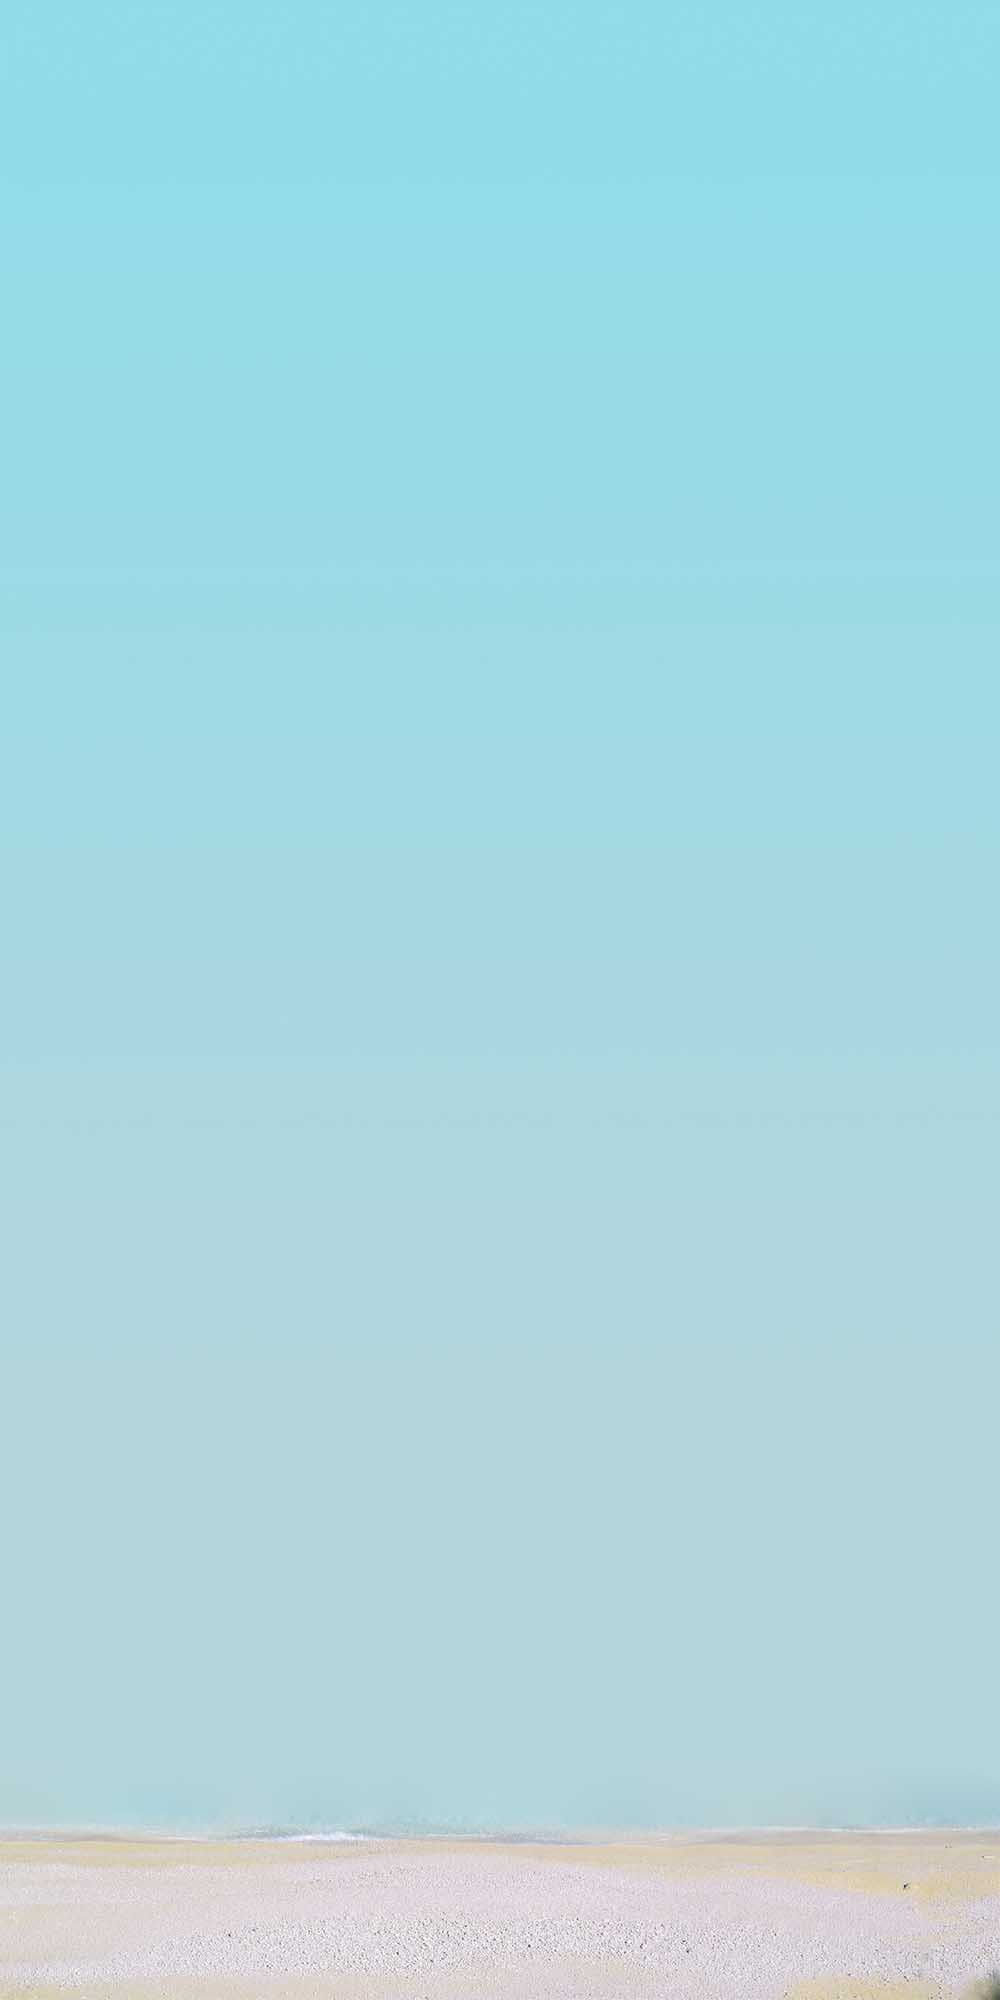
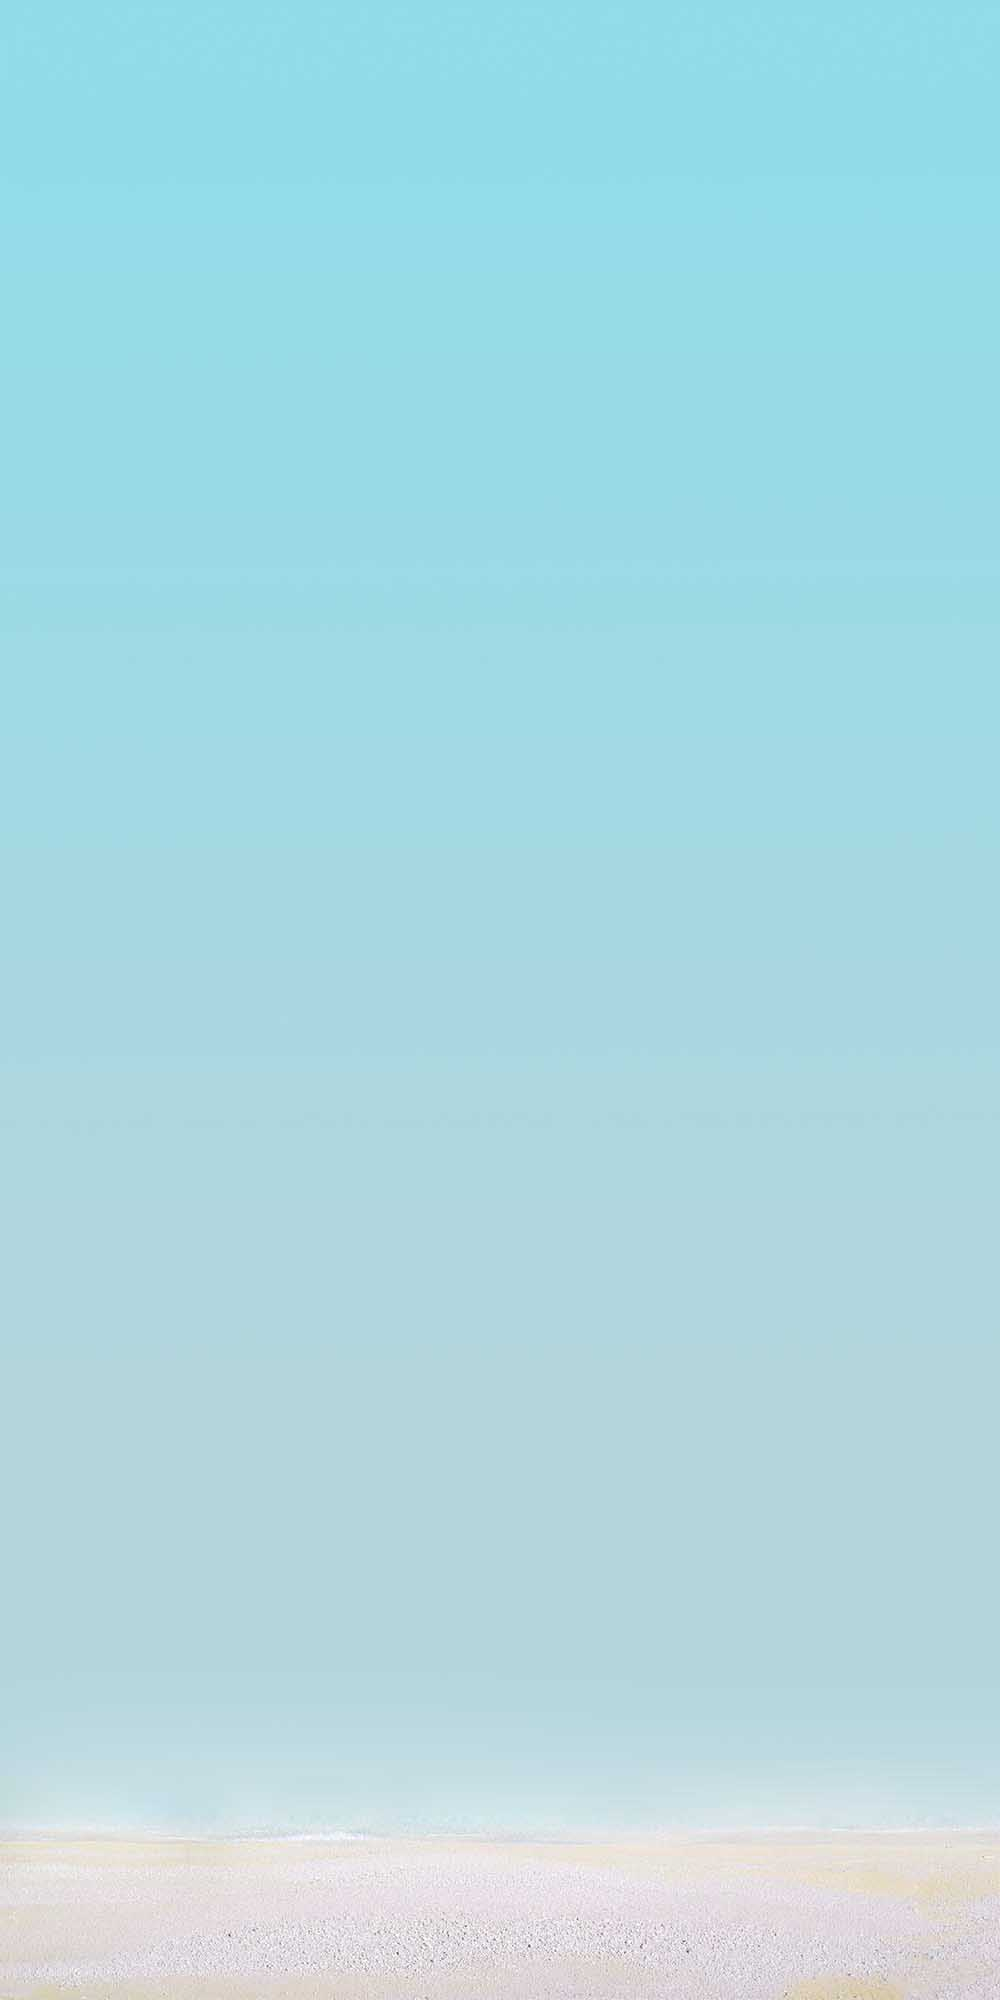
feat: improve bg1

Changed region(s): [[0.0, 0.868, 1.0, 1.0], [0.0, 0.992, 0.031, 1.0]]

diff --git a/assets/foliate-js/src/book.js b/assets/foliate-js/src/book.js
@@ -351,12 +351,10 @@ const getCSS = ({ fontSize,
 
   const writingModeCSS = writingMode === 'auto' ? '' : `writing-mode: ${writingMode} !important;`
 
-  const screenWidth = window.innerWidth
-
   const backgroundImageCSS = !backgroundImage || backgroundImage === 'none' ? 'background: none !important;' :
     `background-image: url('${backgroundImage}') !important;
     background-size: 100% 100% !important;
-    background-repeat: repeat-x !important;
+    background-repeat: repeat !important;
     background-attachment: scroll !important; 
     background-position: center center !important;
     background-clip: content-box !important;`
@@ -442,7 +440,7 @@ const getCSS = ({ fontSize,
 const convertChineseHandler = (mode, doc) => {
   console.log('convertChinese', mode)
   const zh_s = '皑蔼碍爱翱袄奥坝罢摆败颁办绊帮绑镑谤剥饱宝报鲍辈贝钡狈备惫绷笔毕毙闭边编贬变辩辫鳖瘪濒滨宾摈饼拨钵铂驳卜补参蚕残惭惨灿苍舱仓沧厕侧册测层诧搀掺蝉馋谗缠铲产阐颤场尝长偿肠厂畅钞车彻尘陈衬撑称惩诚骋痴迟驰耻齿炽冲虫宠畴踌筹绸丑橱厨锄雏础储触处传疮闯创锤纯绰辞词赐聪葱囱从丛凑窜错达带贷担单郸掸胆惮诞弹当挡党荡档捣岛祷导盗灯邓敌涤递缔点垫电淀钓调迭谍叠钉顶锭订东动栋冻斗犊独读赌镀锻断缎兑队对吨顿钝夺鹅额讹恶饿儿尔饵贰发罚阀珐矾钒烦范贩饭访纺飞废费纷坟奋愤粪丰枫锋风疯冯缝讽凤肤辐抚辅赋复负讣妇缚该钙盖干赶秆赣冈刚钢纲岗皋镐搁鸽阁铬个给龚宫巩贡钩沟构购够蛊顾剐关观馆惯贯广规硅归龟闺轨诡柜贵刽辊滚锅国过骇韩汉阂鹤贺横轰鸿红后壶护沪户哗华画划话怀坏欢环还缓换唤痪焕涣黄谎挥辉毁贿秽会烩汇讳诲绘荤浑伙获货祸击机积饥讥鸡绩缉极辑级挤几蓟剂济计记际继纪夹荚颊贾钾价驾歼监坚笺间艰缄茧检碱硷拣捡简俭减荐槛鉴践贱见键舰剑饯渐溅涧浆蒋桨奖讲酱胶浇骄娇搅铰矫侥脚饺缴绞轿较秸阶节茎惊经颈静镜径痉竞净纠厩旧驹举据锯惧剧鹃绢杰洁结诫届紧锦仅谨进晋烬尽劲荆觉决诀绝钧军骏开凯颗壳课垦恳抠库裤夸块侩宽矿旷况亏岿窥馈溃扩阔蜡腊莱来赖蓝栏拦篮阑兰澜谰揽览懒缆烂滥捞劳涝乐镭垒类泪篱离里鲤礼丽厉励砾历沥隶俩联莲连镰怜涟帘敛脸链恋炼练粮凉两辆谅疗辽镣猎临邻鳞凛赁龄铃凌灵岭领馏刘龙聋咙笼垄拢陇楼娄搂篓芦卢颅庐炉掳卤虏鲁赂禄录陆驴吕铝侣屡缕虑滤绿峦挛孪滦乱抡轮伦仑沦纶论萝罗逻锣箩骡骆络妈玛码蚂马骂吗买麦卖迈脉瞒馒蛮满谩猫锚铆贸么霉没镁门闷们锰梦谜弥觅绵缅庙灭悯闽鸣铭谬谋亩钠纳难挠脑恼闹馁腻撵捻酿鸟聂啮镊镍柠狞宁拧泞钮纽脓浓农疟诺欧鸥殴呕沤盘庞国爱赔喷鹏骗飘频贫苹凭评泼颇扑铺朴谱脐齐骑岂启气弃讫牵扦钎铅迁签谦钱钳潜浅谴堑枪呛墙蔷强抢锹桥乔侨翘窍窃钦亲轻氢倾顷请庆琼穷趋区躯驱龋颧权劝却鹊让饶扰绕热韧认纫荣绒软锐闰润洒萨鳃赛伞丧骚扫涩杀纱筛晒闪陕赡缮伤赏烧绍赊摄慑设绅审婶肾渗声绳胜圣师狮湿诗尸时蚀实识驶势释饰视试寿兽枢输书赎属术树竖数帅双谁税顺说硕烁丝饲耸怂颂讼诵擞苏诉肃虽绥岁孙损笋缩琐锁獭挞抬摊贪瘫滩坛谭谈叹汤烫涛绦腾誊锑题体屉条贴铁厅听烃铜统头图涂团颓蜕脱鸵驮驼椭洼袜弯湾顽万网韦违围为潍维苇伟伪纬谓卫温闻纹稳问瓮挝蜗涡窝呜钨乌诬无芜吴坞雾务误锡牺袭习铣戏细虾辖峡侠狭厦锨鲜纤咸贤衔闲显险现献县馅羡宪线厢镶乡详响项萧销晓啸蝎协挟携胁谐写泻谢锌衅兴汹锈绣虚嘘须许绪续轩悬选癣绚学勋询寻驯训讯逊压鸦鸭哑亚讶阉烟盐严颜阎艳厌砚彦谚验鸯杨扬疡阳痒养样瑶摇尧遥窑谣药爷页业叶医铱颐遗仪彝蚁艺亿忆义诣议谊译异绎荫阴银饮樱婴鹰应缨莹萤营荧蝇颖哟拥佣痈踊咏涌优忧邮铀犹游诱舆鱼渔娱与屿语吁御狱誉预驭鸳渊辕园员圆缘远愿约跃钥岳粤悦阅云郧匀陨运蕴酝晕韵杂灾载攒暂赞赃脏凿枣灶责择则泽贼赠扎札轧铡闸诈斋债毡盏斩辗崭栈战绽张涨帐账胀赵蛰辙锗这贞针侦诊镇阵挣睁狰帧郑证织职执纸挚掷帜质钟终种肿众诌轴皱昼骤猪诸诛烛瞩嘱贮铸筑驻专砖转赚桩庄装妆壮状锥赘坠缀谆浊兹资渍踪综总纵邹诅组钻致钟么为只凶准启板里雳余链泄';
-  const zh_t = '皚藹礙愛翺襖奧壩罷擺敗頒辦絆幫綁鎊謗剝飽寶報鮑輩貝鋇狽備憊繃筆畢斃閉邊編貶變辯辮鼈癟瀕濱賓擯餅撥缽鉑駁蔔補參蠶殘慚慘燦蒼艙倉滄廁側冊測層詫攙摻蟬饞讒纏鏟産闡顫場嘗長償腸廠暢鈔車徹塵陳襯撐稱懲誠騁癡遲馳恥齒熾沖蟲寵疇躊籌綢醜櫥廚鋤雛礎儲觸處傳瘡闖創錘純綽辭詞賜聰蔥囪從叢湊竄錯達帶貸擔單鄲撣膽憚誕彈當擋黨蕩檔搗島禱導盜燈鄧敵滌遞締點墊電澱釣調叠諜疊釘頂錠訂東動棟凍鬥犢獨讀賭鍍鍛斷緞兌隊對噸頓鈍奪鵝額訛惡餓兒爾餌貳發罰閥琺礬釩煩範販飯訪紡飛廢費紛墳奮憤糞豐楓鋒風瘋馮縫諷鳳膚輻撫輔賦複負訃婦縛該鈣蓋幹趕稈贛岡剛鋼綱崗臯鎬擱鴿閣鉻個給龔宮鞏貢鈎溝構購夠蠱顧剮關觀館慣貫廣規矽歸龜閨軌詭櫃貴劊輥滾鍋國過駭韓漢閡鶴賀橫轟鴻紅後壺護滬戶嘩華畫劃話懷壞歡環還緩換喚瘓煥渙黃謊揮輝毀賄穢會燴彙諱誨繪葷渾夥獲貨禍擊機積饑譏雞績緝極輯級擠幾薊劑濟計記際繼紀夾莢頰賈鉀價駕殲監堅箋間艱緘繭檢堿鹼揀撿簡儉減薦檻鑒踐賤見鍵艦劍餞漸濺澗漿蔣槳獎講醬膠澆驕嬌攪鉸矯僥腳餃繳絞轎較稭階節莖驚經頸靜鏡徑痙競淨糾廄舊駒舉據鋸懼劇鵑絹傑潔結誡屆緊錦僅謹進晉燼盡勁荊覺決訣絕鈞軍駿開凱顆殼課墾懇摳庫褲誇塊儈寬礦曠況虧巋窺饋潰擴闊蠟臘萊來賴藍欄攔籃闌蘭瀾讕攬覽懶纜爛濫撈勞澇樂鐳壘類淚籬離裏鯉禮麗厲勵礫曆瀝隸倆聯蓮連鐮憐漣簾斂臉鏈戀煉練糧涼兩輛諒療遼鐐獵臨鄰鱗凜賃齡鈴淩靈嶺領餾劉龍聾嚨籠壟攏隴樓婁摟簍蘆盧顱廬爐擄鹵虜魯賂祿錄陸驢呂鋁侶屢縷慮濾綠巒攣孿灤亂掄輪倫侖淪綸論蘿羅邏鑼籮騾駱絡媽瑪碼螞馬罵嗎買麥賣邁脈瞞饅蠻滿謾貓錨鉚貿麽黴沒鎂門悶們錳夢謎彌覓緬廟滅憫閩鳴銘謬謀畝鈉納難撓腦惱鬧餒膩攆撚釀鳥聶齧鑷鎳檸獰甯擰濘鈕紐膿濃農瘧諾歐鷗毆嘔漚盤龐國愛賠噴鵬騙飄頻貧蘋憑評潑頗撲鋪樸譜臍齊騎豈啓氣棄訖牽扡釺鉛遷簽謙錢鉗潛淺譴塹槍嗆牆薔強搶鍬橋喬僑翹竅竊欽親輕氫傾頃請慶瓊窮趨區軀驅齲顴權勸卻鵲讓饒擾繞熱韌認紉榮絨軟銳閏潤灑薩鰓賽傘喪騷掃澀殺紗篩曬閃陝贍繕傷賞燒紹賒攝懾設紳審嬸腎滲聲繩勝聖師獅濕詩屍時蝕實識駛勢釋飾視試壽獸樞輸書贖屬術樹豎數帥雙誰稅順說碩爍絲飼聳慫頌訟誦擻蘇訴肅雖綏歲孫損筍縮瑣鎖獺撻擡攤貪癱灘壇譚談歎湯燙濤縧騰謄銻題髜條貼鐵廳聽烴銅統頭圖塗團頹蛻脫鴕馱駝橢窪襪彎灣頑萬網韋違圍爲濰維葦偉僞緯謂衛溫聞紋穩問甕撾蝸渦窩嗚鎢烏誣無蕪吳塢霧務誤錫犧襲習銑戲細蝦轄峽俠狹廈鍁鮮纖鹹賢銜閑顯險現獻縣餡羨憲線廂鑲鄉詳響項蕭銷曉嘯蠍協挾攜脅諧寫瀉謝鋅釁興洶鏽繡虛噓須許緒續軒懸選癬絢學勳詢尋馴訓訊遜壓鴉鴨啞亞訝閹煙鹽嚴顔閻豔厭硯彥諺驗鴦楊揚瘍陽癢養樣瑤搖堯遙窯謠藥爺頁業葉醫銥頤遺儀彜蟻藝億憶義詣議誼譯異繹蔭陰銀飲櫻嬰鷹應纓瑩螢營熒蠅穎喲擁傭癰踴詠湧優憂郵鈾猶遊誘輿魚漁娛與嶼語籲禦獄譽預馭鴛淵轅園員圓緣遠願約躍鑰嶽粵悅閱雲鄖勻隕運蘊醞暈韻雜災載攢暫贊贓髒鑿棗竈責擇則澤賊贈紮劄軋鍘閘詐齋債氈盞斬輾嶄棧戰綻張漲帳賬脹趙蟄轍鍺這貞針偵診鎮陣掙睜猙幀鄭證織職執紙摯擲幟質鍾終種腫衆謅軸皺晝驟豬諸誅燭矚囑貯鑄築駐專磚轉賺樁莊裝妝壯狀錐贅墜綴諄濁茲資漬蹤綜總縱鄒詛組鑽緻鐘麼為隻兇準啟闆裡靂餘鍊洩';
+  const zh_t = '皚藹礙愛翺襖奧壩罷擺敗頒辦絆幫綁鎊謗剝飽寶報鮑輩貝鋇狽備憊繃筆畢斃閉邊編貶變辯辮鼈癟瀕濱賓擯餅撥缽鉑駁蔔補參蠶殘慚慘燦蒼艙倉滄廁側冊測層詫攙摻蟬饞讒纏鏟産闡顫場嘗長償腸廠暢鈔車徹塵陳襯撐稱懲誠騁癡遲馳恥齒熾沖蟲寵疇躊籌綢醜櫥廚鋤雛礎儲觸處傳瘡闖創錘純綽辭詞賜聰蔥囪從叢湊竄錯達帶貸擔單鄲撣膽憚誕彈當擋黨蕩檔搗島禱導盜燈鄧敵滌遞締點墊電澱釣調叠諜疊釘頂錠訂東動棟凍鬥犢獨讀賭鍍鍛斷緞兌隊對噸頓鈍奪鵝額訛惡餓兒爾餌貳發罰閥琺礬釩煩範販飯訪紡飛廢費紛墳奮憤糞豐楓鋒風瘋馮縫諷鳳膚輻撫輔賦複負訃婦縛該鈣蓋幹趕稈贛岡剛鋼綱崗臯鎬擱鴿閣鉻個給龔宮鞏貢鈎溝構購夠蠱顧剮關觀館慣貫廣規矽歸龜閨軌詭櫃貴劊輥滾鍋國過駭韓漢閡鶴賀橫轟鴻紅後壺護滬戶嘩華畫劃話懷壞歡環還緩換喚瘓煥渙黃謊揮輝毀賄穢會燴彙諱誨繪葷渾夥獲貨禍擊機積饑譏雞績緝極輯級擠幾薊劑濟計記際繼紀夾莢頰賈鉀價駕殲監堅箋間艱緘繭檢堿鹼揀撿簡儉減薦檻鑒踐賤見鍵艦劍餞漸濺澗漿蔣槳獎講醬膠澆驕嬌攪鉸矯僥腳餃繳絞轎較稭階節莖驚經頸靜鏡徑痙競淨糾廄舊駒舉據鋸懼劇鵑絹傑潔結誡屆緊錦僅謹進晉燼盡勁荊覺決訣絕鈞軍駿開凱顆殼課墾懇摳庫褲誇塊儈寬礦曠況虧巋窺饋潰擴闊蠟臘萊來賴藍欄攔籃闌蘭瀾讕攬覽懶纜爛濫撈勞澇樂鐳壘類淚籬離裏鯉禮麗厲勵礫曆瀝隸倆聯蓮連鐮憐漣簾斂臉鏈戀煉練糧涼兩輛諒療遼鐐獵臨鄰鱗凜賃齡鈴淩靈嶺領餾劉龍聾嚨籠壟攏隴樓婁摟簍蘆盧顱廬爐擄鹵虜魯賂祿錄陸驢呂鋁侶屢縷慮濾綠巒攣孿灤亂掄輪倫侖淪綸論蘿羅邏鑼籮騾駱絡媽瑪碼螞馬罵嗎買麥賣邁脈瞞饅蠻滿謾貓錨鉚貿麽黴沒鎂門悶們錳夢謎彌覓綿緬廟滅憫閩鳴銘謬謀畝鈉納難撓腦惱鬧餒膩攆撚釀鳥聶齧鑷鎳檸獰甯擰濘鈕紐膿濃農瘧諾歐鷗毆嘔漚盤龐國愛賠噴鵬騙飄頻貧蘋憑評潑頗撲鋪樸譜臍齊騎豈啓氣棄訖牽扡釺鉛遷簽謙錢鉗潛淺譴塹槍嗆牆薔強搶鍬橋喬僑翹竅竊欽親輕氫傾頃請慶瓊窮趨區軀驅齲顴權勸卻鵲讓饒擾繞熱韌認紉榮絨軟銳閏潤灑薩鰓賽傘喪騷掃澀殺紗篩曬閃陝贍繕傷賞燒紹賒攝懾設紳審嬸腎滲聲繩勝聖師獅濕詩屍時蝕實識駛勢釋飾視試壽獸樞輸書贖屬術樹豎數帥雙誰稅順說碩爍絲飼聳慫頌訟誦擻蘇訴肅雖綏歲孫損筍縮瑣鎖獺撻擡攤貪癱灘壇譚談歎湯燙濤縧騰謄銻題體屜條貼鐵廳聽烴銅統頭圖塗團頹蛻脫鴕馱駝橢窪襪彎灣頑萬網韋違圍爲濰維葦偉僞緯謂衛溫聞紋穩問甕撾蝸渦窩嗚鎢烏誣無蕪吳塢霧務誤錫犧襲習銑戲細蝦轄峽俠狹廈鍁鮮纖鹹賢銜閑顯險現獻縣餡羨憲線廂鑲鄉詳響項蕭銷曉嘯蠍協挾攜脅諧寫瀉謝鋅釁興洶鏽繡虛噓須許緒續軒懸選癬絢學勳詢尋馴訓訊遜壓鴉鴨啞亞訝閹煙鹽嚴顔閻豔厭硯彥諺驗鴦楊揚瘍陽癢養樣瑤搖堯遙窯謠藥爺頁業葉醫銥頤遺儀彜蟻藝億憶義詣議誼譯異繹蔭陰銀飲櫻嬰鷹應纓瑩螢營熒蠅穎喲擁傭癰踴詠湧優憂郵鈾猶遊誘輿魚漁娛與嶼語籲禦獄譽預馭鴛淵轅園員圓緣遠願約躍鑰嶽粵悅閱雲鄖勻隕運蘊醞暈韻雜災載攢暫贊贓髒鑿棗竈責擇則澤賊贈紮劄軋鍘閘詐齋債氈盞斬輾嶄棧戰綻張漲帳賬脹趙蟄轍鍺這貞針偵診鎮陣掙睜猙幀鄭證織職執紙摯擲幟質鍾終種腫衆謅軸皺晝驟豬諸誅燭矚囑貯鑄築駐專磚轉賺樁莊裝妝壯狀錐贅墜綴諄濁茲資漬蹤綜總縱鄒詛組鑽緻鐘麼為隻兇準啟闆裡靂餘鍊洩';
 
   const from = mode === 's2t' ? zh_s : zh_t
   const to = mode === 's2t' ? zh_t : zh_s
